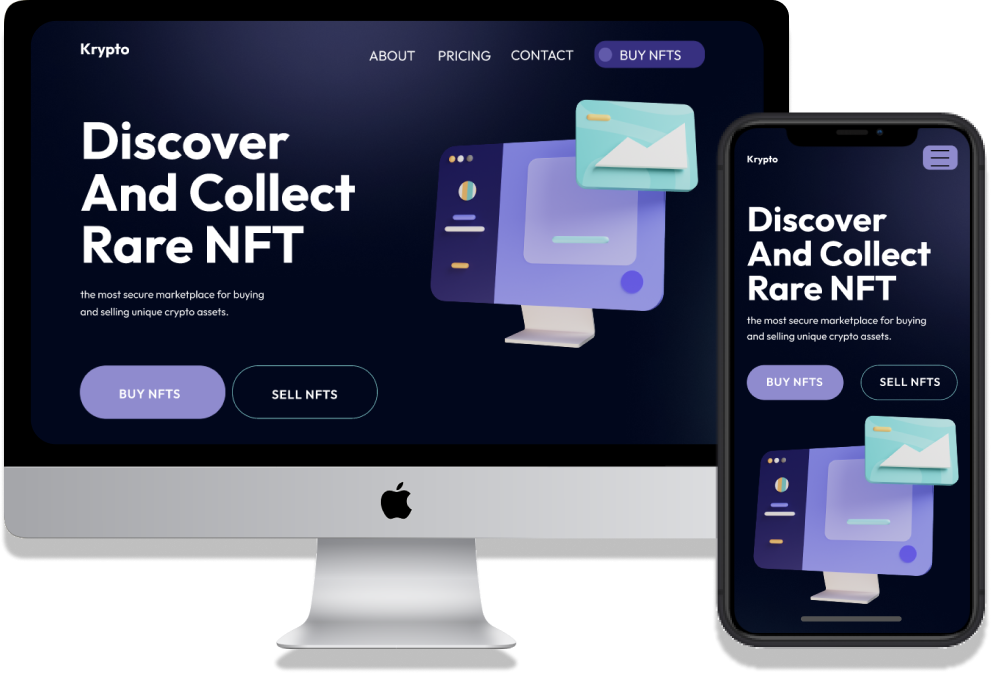
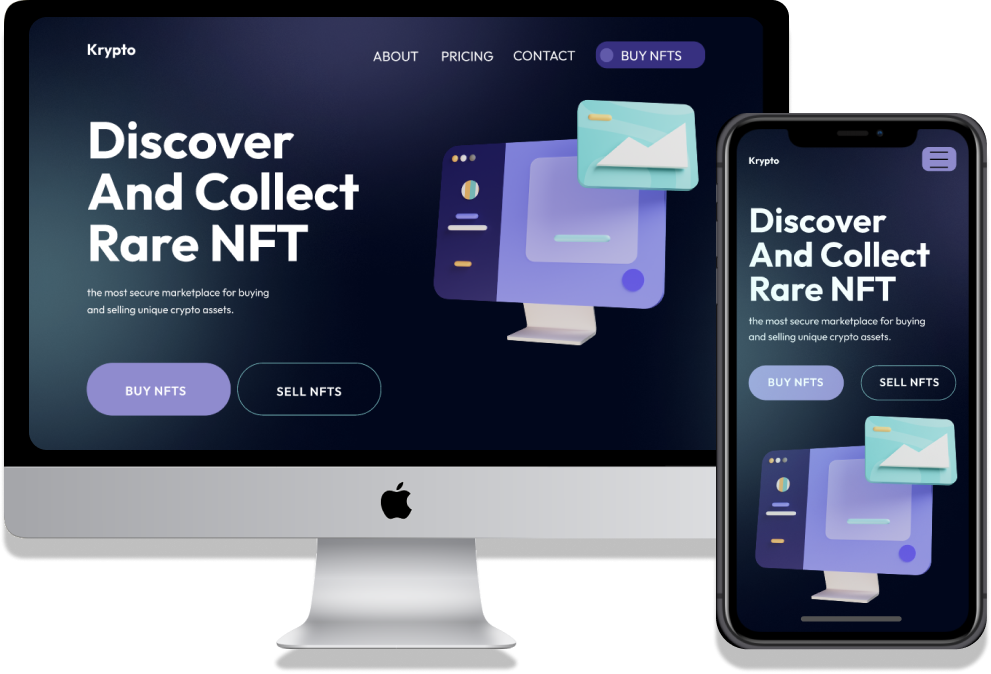
update in all main

diff --git a/index.html b/index.html
@@ -61,15 +61,16 @@
                     <a href="#Pricing" class="nav-link">Pricing</a>
                 </li>
                 <li class="nav-item">
-                    <a href="" data-bs-toggle="modal" data-bs-target="#staticBackdrop
-                    " class="nav-link">Hire us</a>
-                </li>
-                <li class="nav-item">
                     <a href="" data-bs-toggle="modal" data-bs-target="#Contact-popup" class="nav-link">Contact</a>
                 </li>
-                <li >
+                <li  class="nav-item">
                     <a href="#Socials" class="nav-link">Socials</a>
-                </li>         
+                </li>    
+                <li>
+                  <div id="rec-hireus">
+                  <a href="" data-bs-toggle="modal" data-bs-target="#staticBackdrop" class="nav-link"><i class="fa-solid fa-circle" style="color: #8f8bcd;"></i> Hire us</a>
+                  </div>
+              </li>     
             </ul>
           </div>
         </div>
@@ -78,7 +79,7 @@
       <div class="row">
         
 
-        <div class="col-lg-6">
+        <div data-aos="fade-right" class="col-lg-6">
           <h1 class="h1-bold">Get noticed online with a stunning website</h1>
           <p>Ready to elevate your business and stand out in the digital world? Let our team of expert web developers bring your website to the next level.</p>
           <button type="button" class="CTA-btn"  data-bs-toggle="modal" data-bs-target="#staticBackdrop"><span>Hire us</span></button>
@@ -89,7 +90,9 @@
 
          <div class="col-lg-6">
           <div class="content-wrapper">
-          <img src="images/Group 11.png" alt="Phone-web" id="Image-phone" draggable="false">
+          
+          <img data-aos-delay="300" data-aos="fade-in" src="images/Group 11.png" alt="Phone-web" id="Image-phone" draggable="false">
+        
           
           <!-- <video data-aos="fade-left" id="web-example-vid" class="img-fluid" autoplay muted loop>
             <source src="images/Webexample.mp4" type="video/mp4" >
@@ -165,13 +168,13 @@
 
         <div class="row" id="row-cta1">
 
-          <div class="col-lg-6" style="margin-top: 5%;">
+          <div data-aos="fade-right" class="col-lg-6" style="margin-top: 5%;">
             <h1 class="CTA-h1">Transform Your Online Presence with Our Expert Web Development Services</h1>
             <br>
             <p>Take the first step towards impressing your target audience. Let us create a custom website that captures their attention and converts them into loyal customers. Contact us today to learn how we can elevate your online presence and help your business succeed!</p>
           </div>
 
-          <div class="col-lg-6" style="text-align: center; margin-top: 5%;">
+          <div data-aos="fade-left" class="col-lg-6" style="text-align: center; margin-top: 5%;">
             <img src="images/graph_Cta_2.png" alt="chart" class="graph-fluid">
           </div>
         </div>
@@ -194,17 +197,17 @@
 
         <div class="row" id="row-cta1">
 
-          <div id="CTA-lg-visible" class="col-lg-6" style="text-align: center; margin-top: 5%;">
+          <div data-aos="fade-right" id="CTA-lg-visible" class="col-lg-6" style="text-align: center; margin-top: 5%;">
             <img src="images/chart_on_pc.png" alt="chart" style="width: 80%;">
           </div>
 
-          <div class="col-lg-6" style="margin-top: 5%;">
+          <div data-aos="fade-left" class="col-lg-6" style="margin-top: 5%;">
             <h1 class="CTA-h1">Partner with Us for a Stunning Website and a More Powerful Online Image</h1>
             <br>
             <p>Investing in a high-quality website is one of the smartest decisions you can make for your business. Let us help you achieve your goals and elevate your online presence to new heights. Contact us today to schedule a consultation and take the first step towards improving your business.</p>
           </div>
 
-          <div id="CTA-sm-hidden" class="col-lg-6" style="text-align: center; margin-top: 5%;">
+          <div data-aos="fade-right" id="CTA-sm-hidden" class="col-lg-6" style="text-align: center; margin-top: 5%;">
             <img src="images/chart_on_pc.png" alt="chart" class="graph-fluid">
           </div>
 
@@ -465,25 +468,25 @@
 
         <div id="row_footer" class="col-lg-12" style="display: table;">
           
-          <div class=" col-lg-3" >
+          <div  data-aos="fade-up" class=" col-lg-3" >
             <h1 class="Melero_footer" style="display: inline-block;">Melero</h1>
           </div>
 
-          <div class="col-sm-footer col-lg-3" >
+          <div data-aos="fade-up" data-aos-delay="200" class="col-sm-footer col-lg-3" >
             <a class="a" href="#first-sec"><p class="p-footer">Home</p></a>
             <a class="a" href="#Socials"><p data-bs-target="#Contact-popup" data-bs-toggle="modal" class="p-footer">Contact</p></a>
             <a class="a" href="#benefits"><p class="p-footer">Why us</p></a>
             <a class="a" href="" data-bs-toggle="modal" data-bs-target="#staticBackdrop"><p class="p-footer">Hire us</p></a>
           </div>
           
-          <div class="col-sm-footer col-lg-3">
+          <div data-aos="fade-up" data-aos-delay="400" class="col-sm-footer col-lg-3">
             <a target="_blank" class="a" href="https://www.instagram.com/themeleroo/"><p class="p-footer"><i class="fa-brands fa-instagram"></i> Instagram</p></a>
             <a target="_blank" class="a" href="https://www.tiktok.com/@themeleroo?lang=en"><p class="p-footer"><i class="fa-brands fa-tiktok"></i> TikTok</p></a>
             <a target="_blank" class="a" href="https://www.youtube.com/channel/UCX4zg3Fh0kefC3nwoSttutA"><p class="p-footer"><i class="fa-brands fa-youtube"></i> YouTube</p></a>
             <a target="_blank" class="a" href="mailto: theMeleroo@gmx.net"><p class="p-footer"><i class="fa-solid fa-envelope"></i> Email</p></a>
           </div>
 
-          <div class="col-sm-footer col-lg-3" >
+          <div data-aos="fade-up" data-aos-delay="600" class="col-sm-footer col-lg-3" >
             <p class="p-footer">Legal <i class="fa-solid fa-file-contract"></i></p>
             <p class="p-footer"><a class="a" href="Allgemeine Geschäftsbedingungen.pdf" style="color: white;" target="_blank">Terms of use</a></p>
             <p class="p-footer"><a class="a" href="impressum.html" style="color: white;" target="_blank">Impressum</a></p>

diff --git a/css/index.css b/css/index.css
@@ -4,7 +4,7 @@ body{
     padding: 0 10%;
     font-family: 'Outfit', sans-serif;
     z-index: -2;
-    /* overflow-x: hidden;  */
+    overflow-x: hidden; 
 
 }
 
@@ -99,6 +99,14 @@ img{
     margin-right: 30px;
 }
 
+#rec-hireus{
+    background-color: #373080;
+    border-radius: 20px;
+    /* width: max-content;
+    margin-left: auto;
+    margin-right: auto; */
+}
+
 .navbar-brand {
     color: #ffffff;
 }
@@ -119,19 +127,20 @@ img{
 }
 */
 #Image-phone {
-    z-index: 1;
-    position: absolute;
+     z-index: 1;
+   position: absolute;
     top: 0;
     bottom: 0;
-    margin-top: 0;
+    margin-top: 5%;
     margin-bottom: auto;
     right: 0;
     left: 0;
     margin-left: auto;
     margin-right: auto;
     user-select: none;
-    width: 110%;
+    width: 100%; 
 } 
+
 
 /* #web-example-vid{
     width: 700px;
@@ -213,7 +222,7 @@ img{
   /* benefits section  ***************************************************************************************************/
 
   #benefits {
-    margin-top: 20%;
+    margin-top: 10%;
     color: #7B7B7B;
   }
 
@@ -230,7 +239,7 @@ img{
 
 
 .card:hover {
-    transform: translateY(-5px);
+    transform: translateY(-30px);
 }
 
 .benefit-design {
